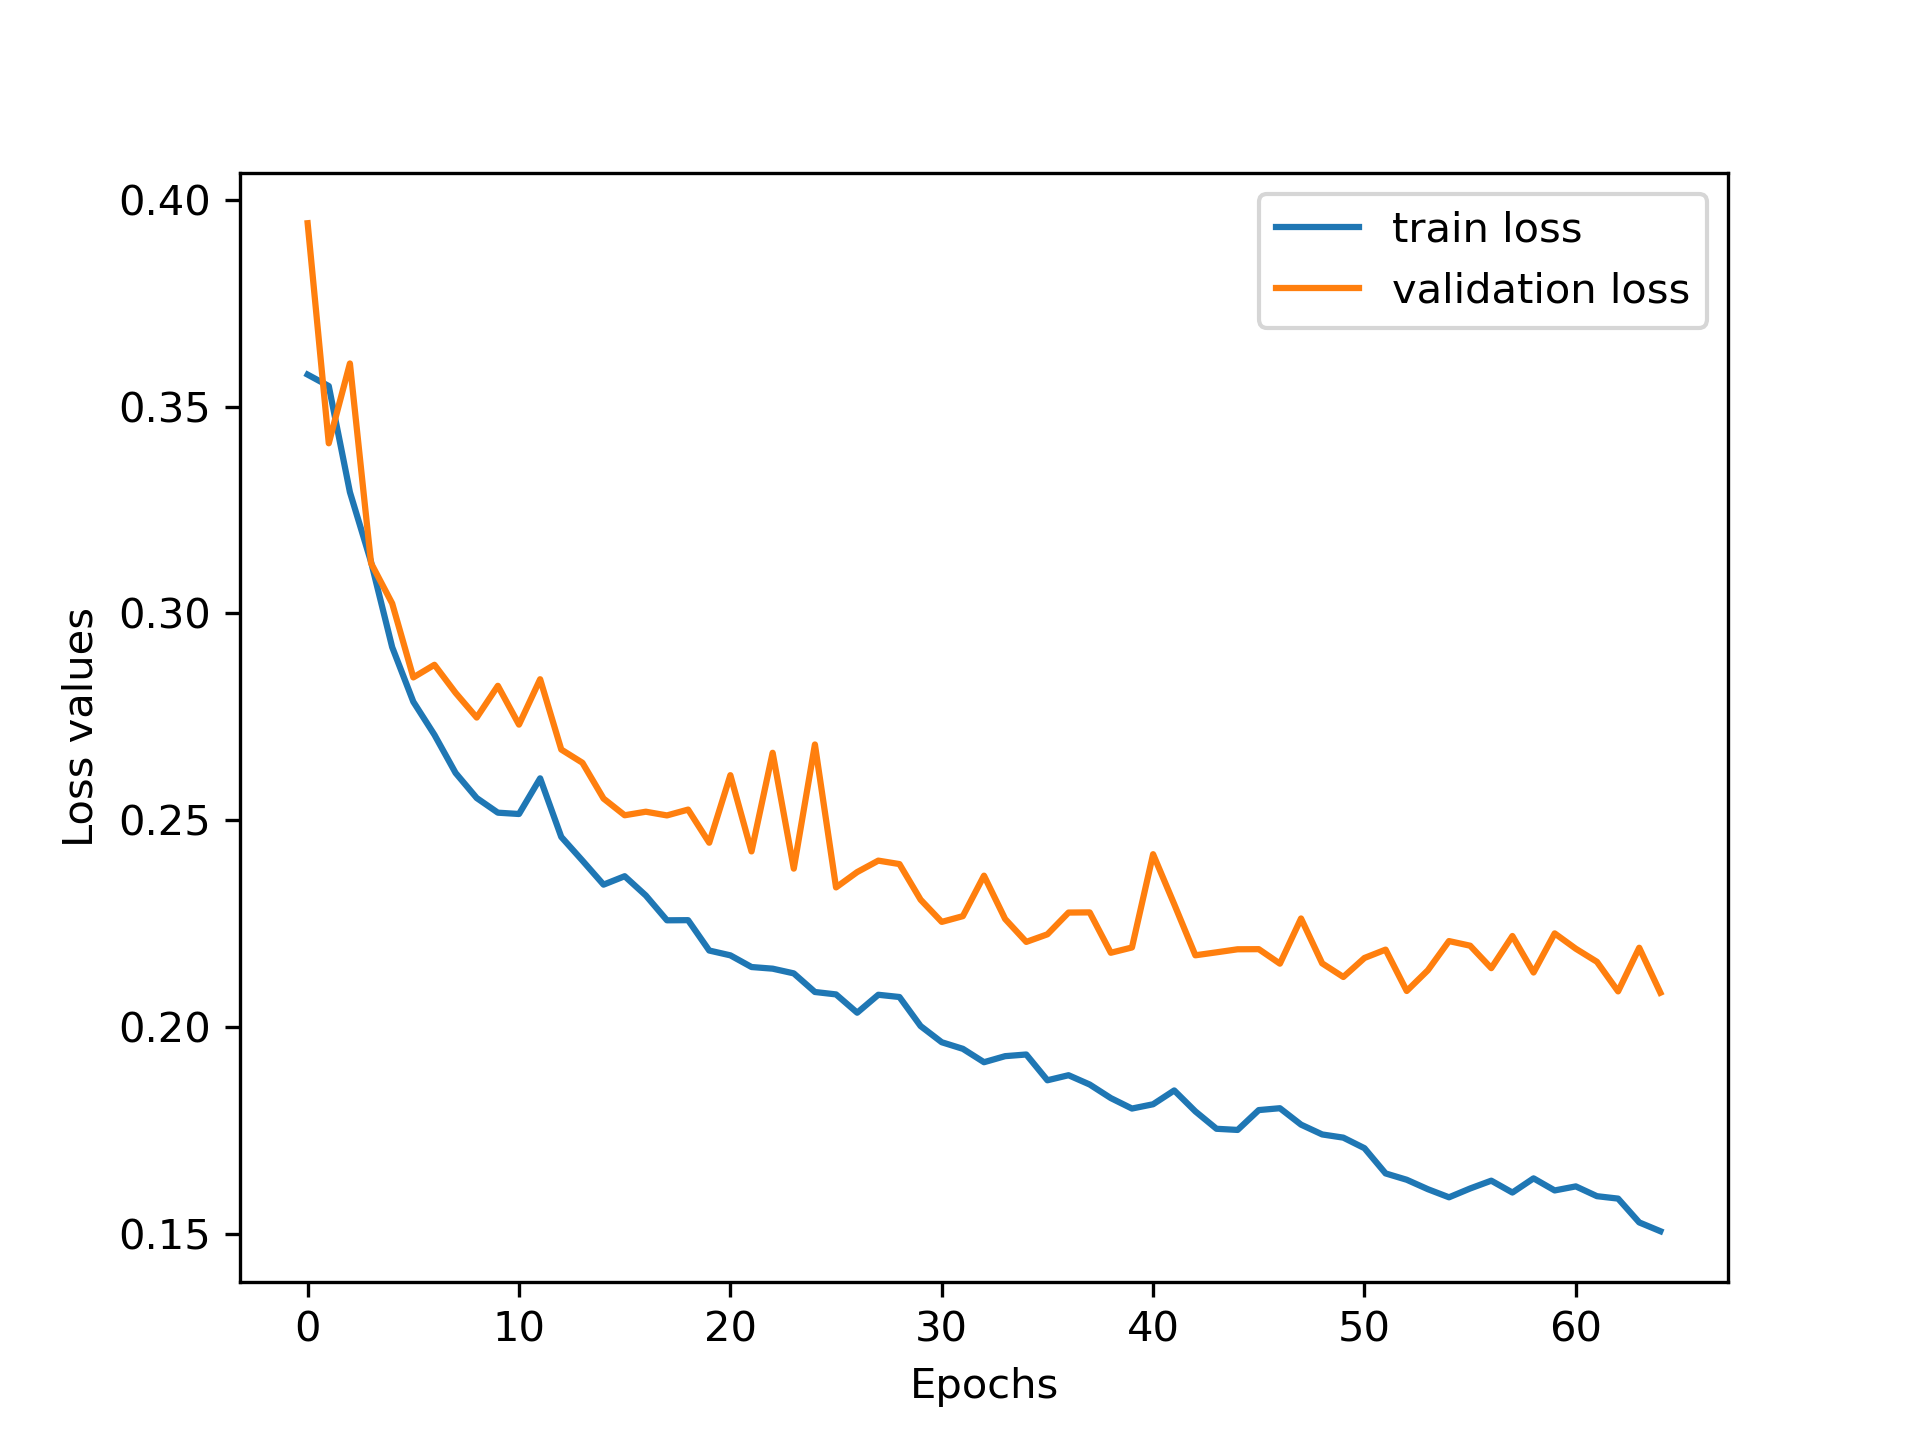
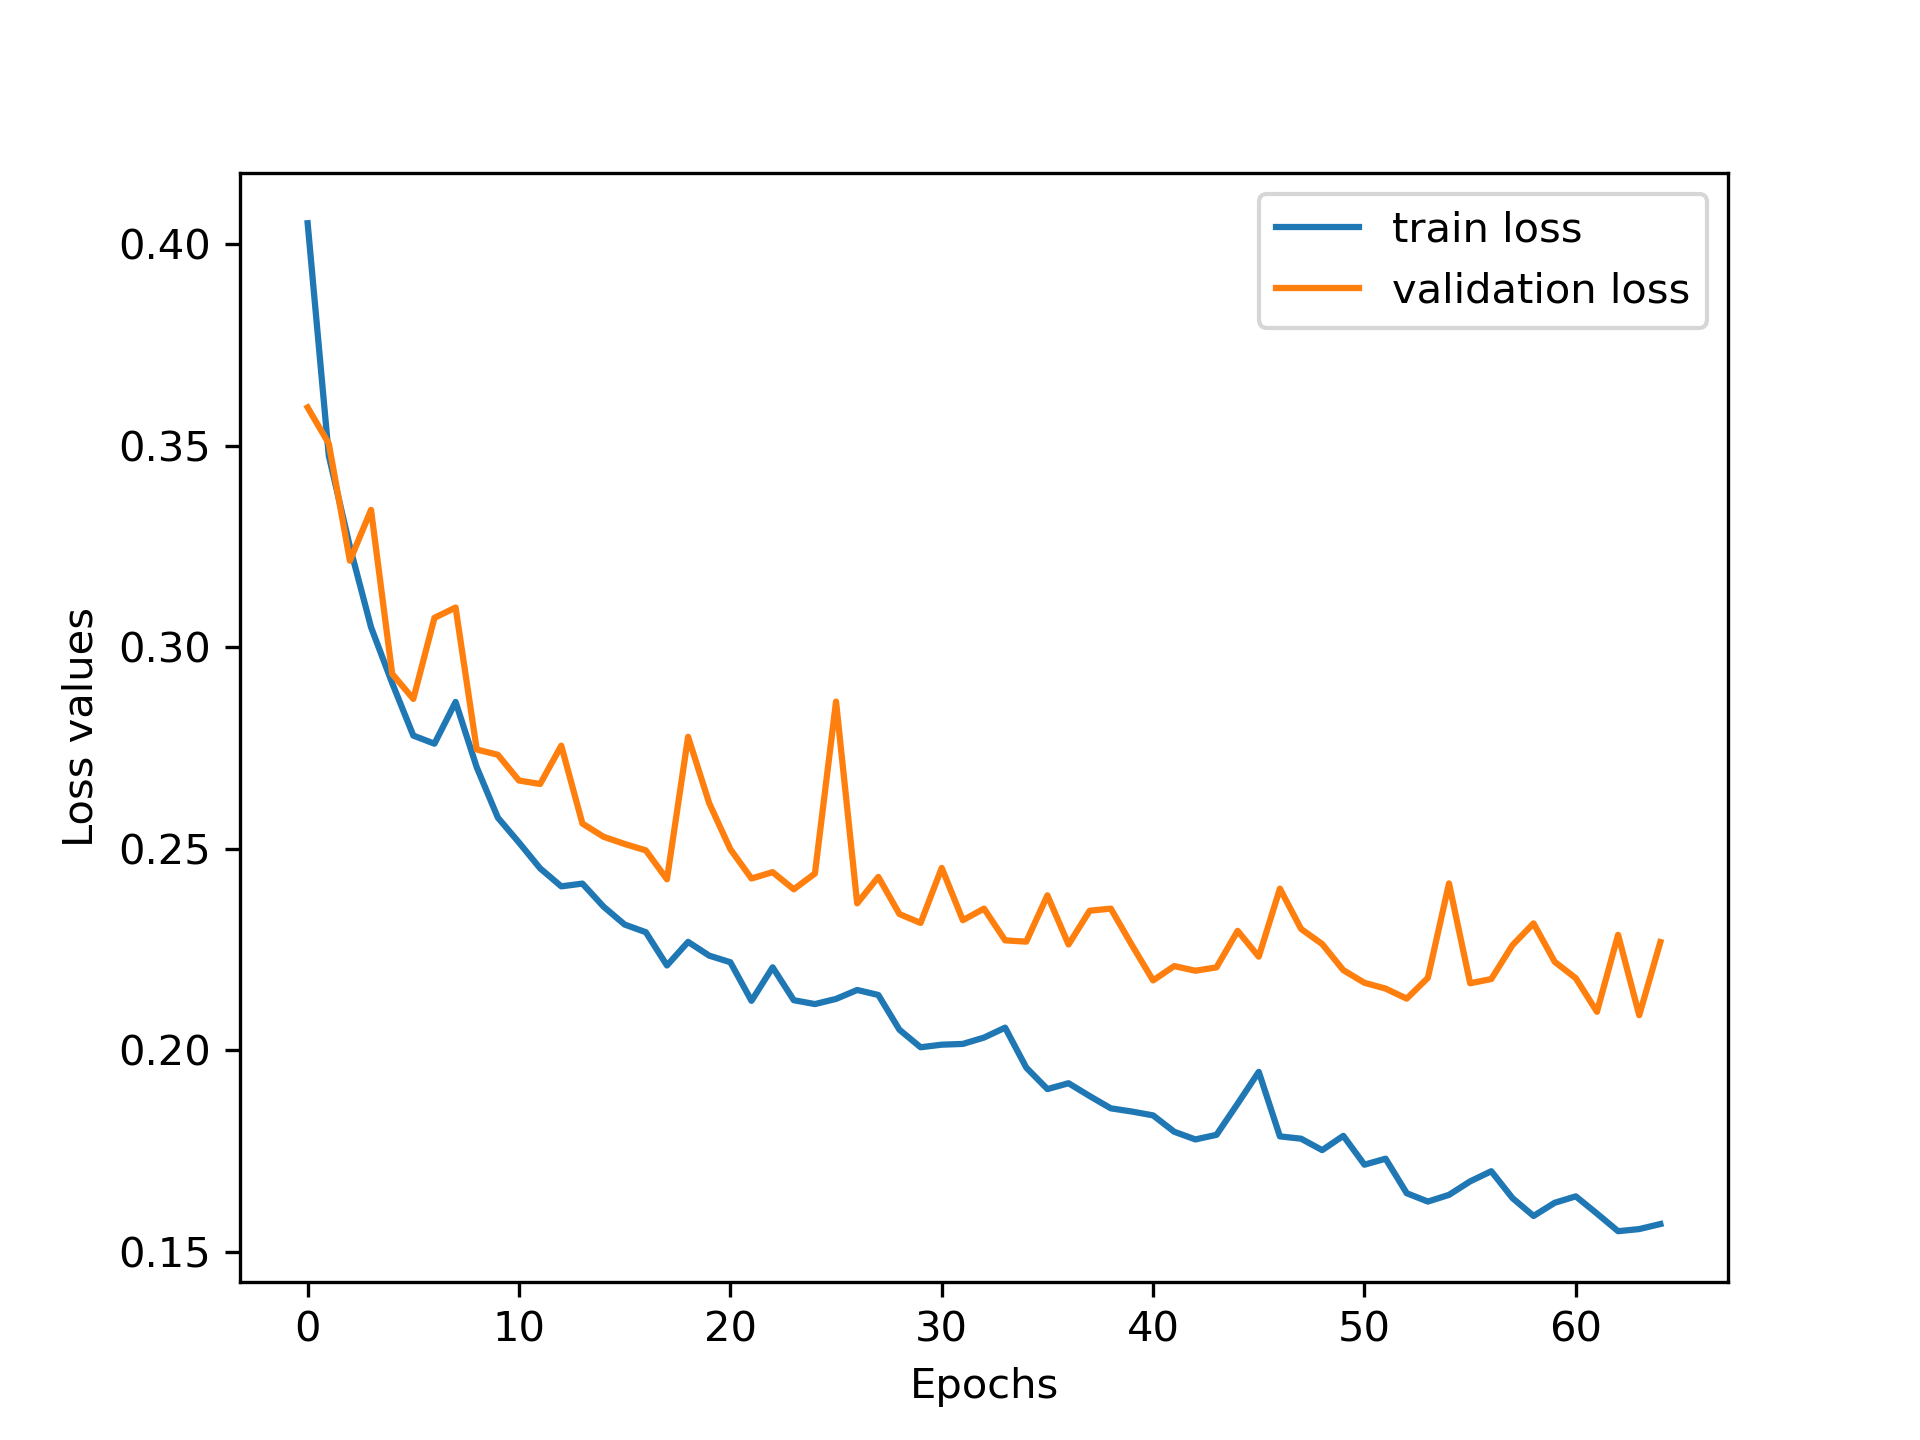
change decision threshold and retrain the model

diff --git a/pipeline/train_pipeline.py b/pipeline/train_pipeline.py
@@ -111,7 +111,7 @@ class TrainClassifier():
       
       true_value = batch.y.float().unsqueeze(dim = 1)
 
-      prediction = torch.where(prediction > 0.2, 1, 0) 
+      prediction = torch.where(prediction > 0.5, 1, 0) 
 
       predictions.append(prediction)
       true_values.append(true_value) 

diff --git a/readme.md b/readme.md
@@ -42,14 +42,14 @@ python main.py
 * **Accuracy**: 84%
 * **Classification report**: 
 ```
-             precision    recall  f1-score   support
+              precision    recall  f1-score   support
 
-         0.0       0.82      0.73      0.77       713
-         1.0       0.85      0.90      0.88      1218
+         0.0       0.73      0.83      0.78       713
+         1.0       0.89      0.82      0.86      1218
 
-    accuracy                           0.84      1931
-   macro avg       0.83      0.82      0.82      1931
-weighted avg       0.84      0.84      0.84      1931
+    accuracy                           0.82      1931
+   macro avg       0.81      0.83      0.82      1931
+weighted avg       0.83      0.82      0.83      1931
 ```
 ## **Loss plot** 
 ![Loss validation plot](./trained_model/training_plot.png)